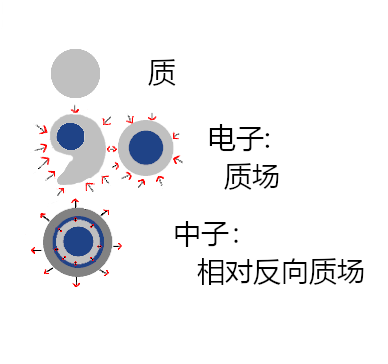
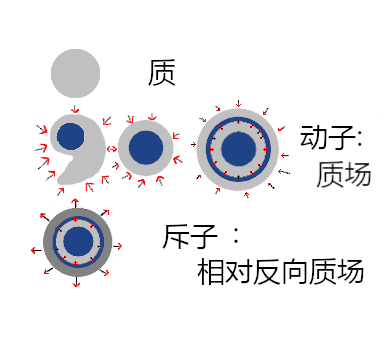
update

Changed region(s): [[0.4948, 0.272, 0.7423, 0.544], [0.7732, 0.3324, 0.9588, 0.5137], [0.4021, 0.6044, 0.5876, 0.6951]]

diff --git a/README.md b/README.md
@@ -7,11 +7,11 @@
 
    #### 万物能量的源泉:质 (粒状流体)(上帝电容)(神的荣耀源泉产物)，传承神的遗志，统领万物。
 
-   #### 质(粒状流体)
-   吸收红外电粒子的能量(频率迁跃，自旋，移动加速度的动能)，帮助其他电粒子(红外
-频率以外，临界值暂时不明确，与质的冠幅有关)充电。质的力由质与质所传导，质被质场所吸引，并且
-受质场力的方向与力的加速度传导所影响(质作为一份子加入到质场中)。与质场的源距离越远，力的加
-速度越小，反之亦然(1元的磁铁肯定比不上100元的)。由于地球质场影响，同一光源，向下照的光比向
+   #### 质(类似原来的质子概念，粒状流体)
+   吸收红外(低频)动子的能量(频率迁跃，自旋，移动加速度的动能)。由于动子产生后对周围形成持续的力传导，
+所以质需要帮助动子(红外低频率以外的，临界值暂时不明确，与质的冠幅有关)保持各项加速度，以至于不迅速泯灭。
+质的力由质与质所传导，质被质场所吸引，并且受质场力的方向与力的加速度传导所影响(质作为一份子加入到质场中)。
+与质场的源距离越远，力的加速度越小，反之亦然。由于地球质场影响，同一光源，向下照的光比向
 上照的光快两个地球重力加速度。由于受红外电粒子(不是迁跃情况，而是在同个质中颤振)的影响，主要是
 因为红外电子受质的牵引，由于自旋原因红外电子以圆轨路径在质里颤动，质被撑大，所以物质表现出
 热涨冷缩特性。若非有足够的加速度，质与质之间不可逾越，反之则可以。(这里有件事不确定的就是质
@@ -20,7 +20,7 @@
 状态，无限的膨胀以后将成为新的问题)。没有个性的质只能随流(质场)。有个性的质可以一飞冲天，漫
 游星际。
 
-   #### 电子(频率颤振，自旋的质产生了质场从而形成了电子，如果其一为零，则电子泯灭，剩下质)
+   #### 动子(类似原来的电子概念。频率颤振，自旋的质产生了质场从而形成了动子，如果其一为零，则电子泯灭，剩下质)
    一般由质(一般情况里面有电子)与质(一般情况里面有电子)的碰撞(消耗这两个质的容量，分配出一个新的质)
 形成移动方向与移动加速度(使用矢量方式计算。光速很快很难捕捉，但光速不是常数，绝大多数情况是
 不同的速度)。伏特不使用正负描述，而是用自旋方向去决定相对的同向与相对的反向(万向，使用矢量
@@ -37,10 +37,10 @@
 力的传导，质场从而把力传导到其他物质的原子核外电子(核外质)引起摆动。(即使作用力很小也要把这
 些力附加上去如同计算混音效果，想想2012年那来自天外的爆炸声和喧杂声)
 
-   #### 中子
+   #### 斥子(类似原来的中子概念)
    电粒子(y 频率)从后追上撞进电粒子中，被包裹着(移动方向相同，加速度更快，所以追上了),
-形成内纠缠。被撞的电粒子里包裹着撞击的电粒子，由于向心挤压导致力反向，所以中子外壁表现出
-相对反向的特性。独立静止的中子稍微加热就会被破坏。
+形成内纠缠。被撞的电粒子里包裹着撞击的电粒子，在原子内由于向心挤压导致力反向，所以斥子外壁表现出
+相对反向的特性。独立静止的斥子稍微加热就会被破坏。
 
    #### 质场
    由力的方向与力的加速度组成(矢量概念)。关于力场学中的物理三大场，引力场，磁力场，电
